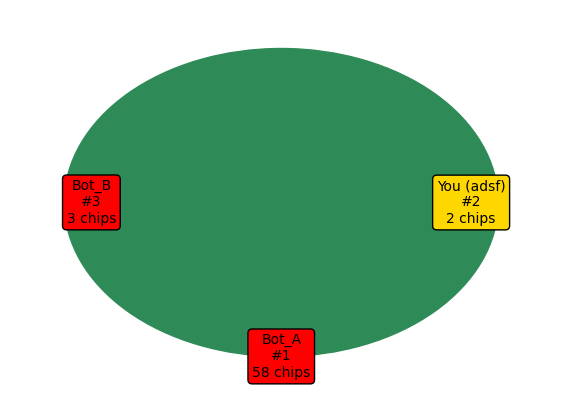
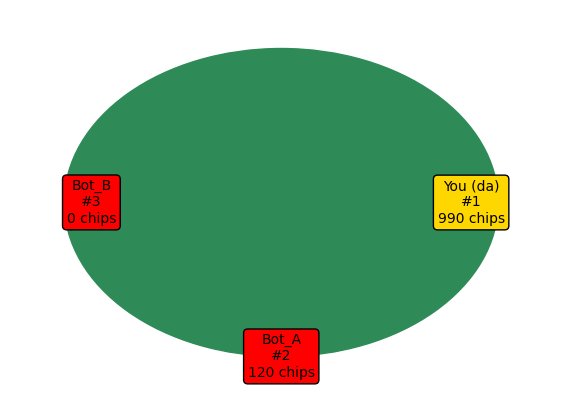
fixed ratio calculation for game end

Changed region(s): [[0.7562, 0.4444, 0.9075, 0.563], [0.4235, 0.8, 0.5747, 0.9481], [0.121, 0.5333, 0.1512, 0.563]]

diff --git a/ex3.py b/ex3.py
@@ -280,7 +280,7 @@ class GameManager:
             if bot.chips == 0:
                 rebuy = bot.total_chips_added
                 bot.chips = rebuy
-                bot.total_chips_added = rebuy
+                bot.total_chips_added = bot.total_chips_added + rebuy
                 print(f'{bot.name} was out of chips and added {rebuy} more chips.')
             amount = bot.place_random_bet()
             bot.place_bet(amount)
@@ -325,10 +325,9 @@ class GameManager:
         all_players = [self.player] + self.bots
         chip_counts = [p.chips for p in all_players]
         chip_ratios = []
-        #TODO check if ratio works correctly
         for p in all_players:
-            initial = p.total_chips_added if hasattr(p, 'total_chips_added') else p.chips
-            ratio = p.chips + initial if initial > 0 else 0
+            initial = p.total_chips_added #if hasattr(p, 'total_chips_added') else p.chips
+            ratio = p.chips / initial
             chip_ratios.append((p.name, p.chips, initial, ratio))
         names = [p.name for p in all_players]
         avg = np.mean(chip_counts)
@@ -340,7 +339,7 @@ class GameManager:
         print('\nPlayer ranking (highest to lowest):')
         ranked = sorted(chip_ratios, key=lambda x: x[3], reverse=True)
         for i, (name, chips, invested, ratio) in enumerate(ranked, 1):
-            print(f'{i}. {name} - Chips: {chips}, Invested: {invested}, Return Rate: {ratio:.2f}')
+            print(f'{i}. {name} - Chips: {chips}, Invested: {invested}, Return Rate: {ratio}')
         players_by_seat = {}
         bot_index = 0
         for seat in range(1, 4):
